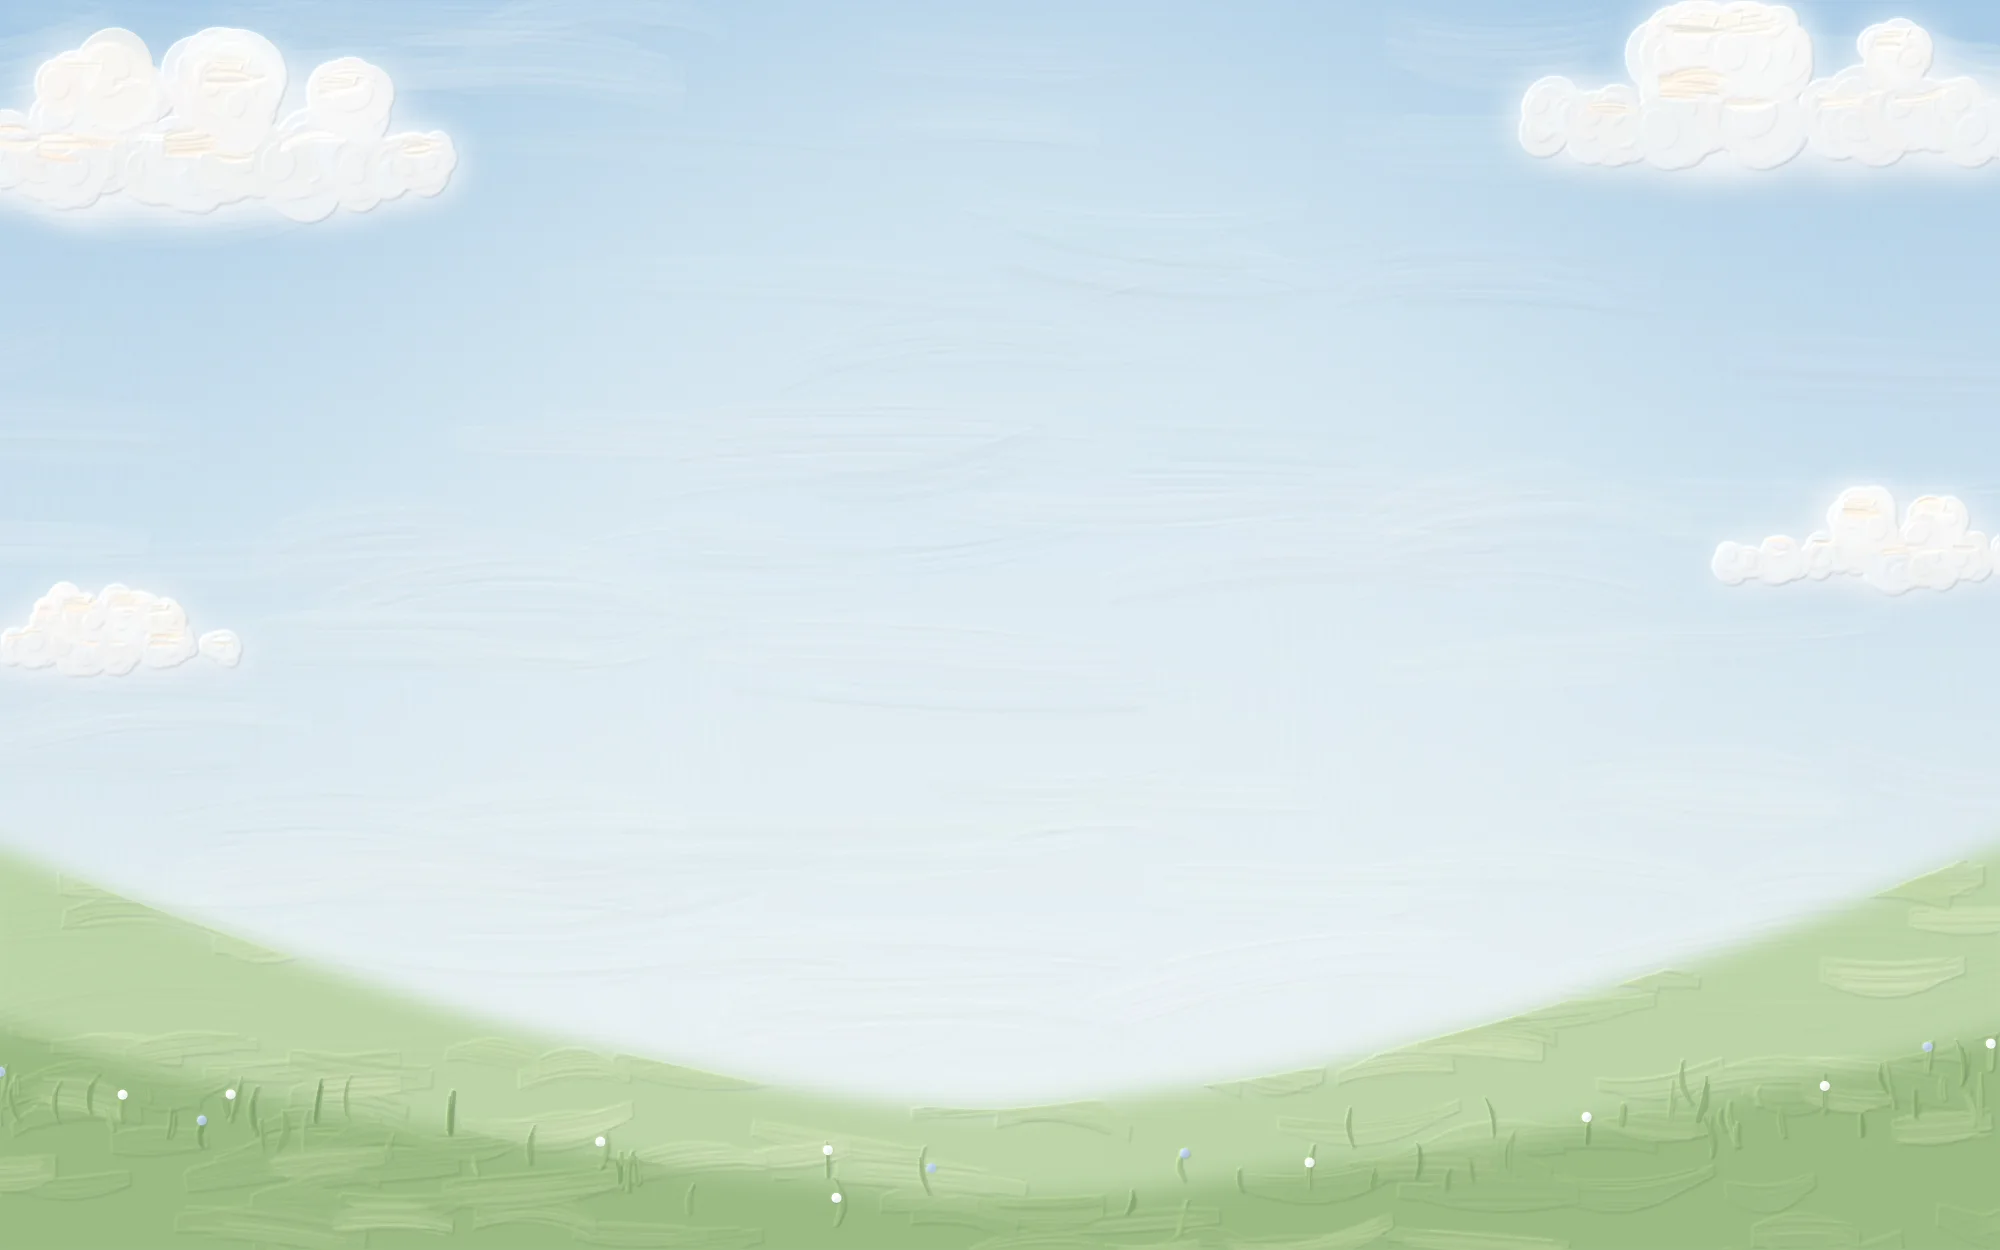
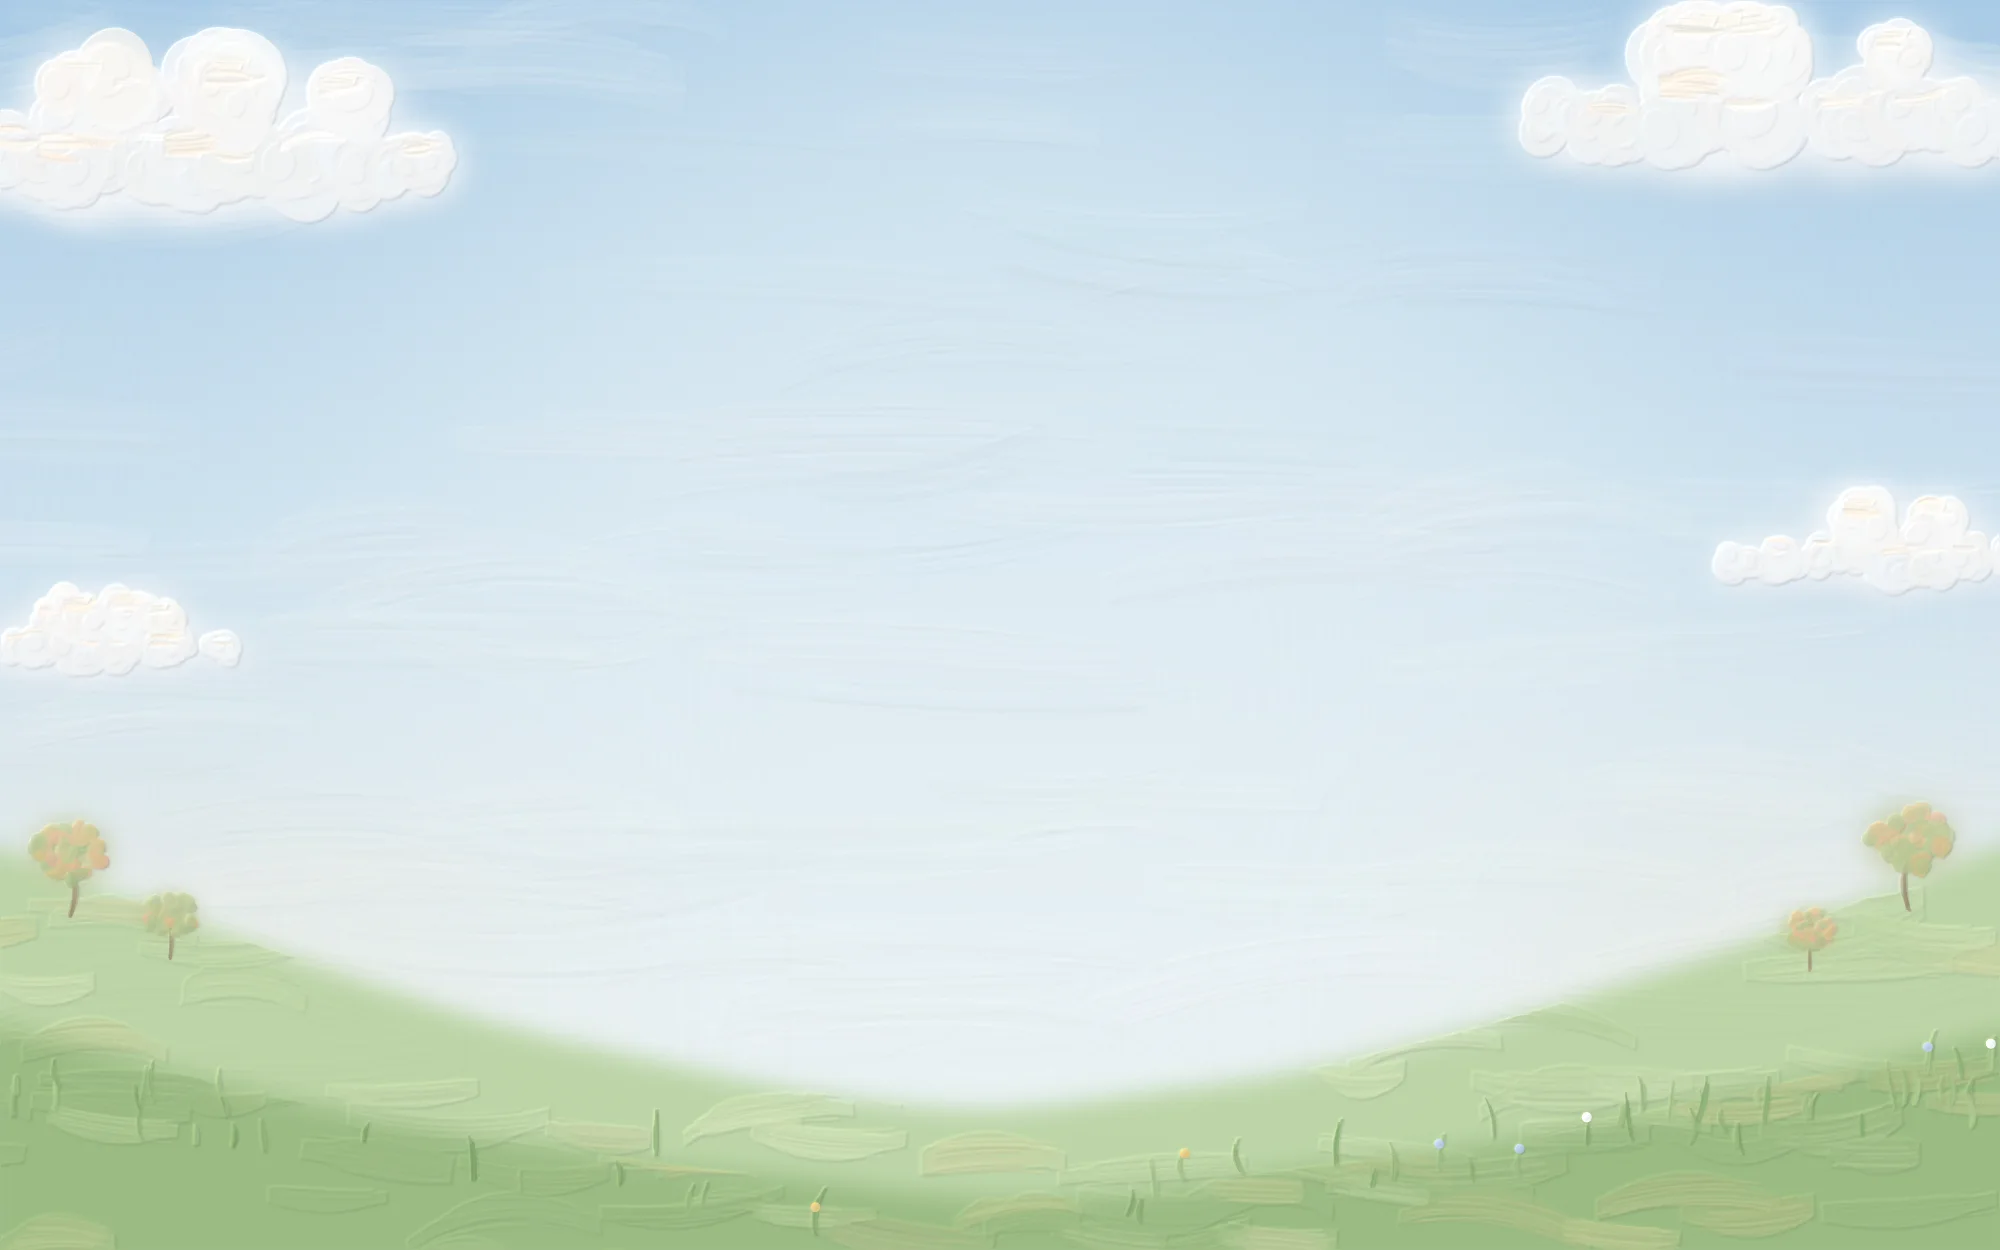
Early-autumn warmth on the case-study backdrop; Work page is one full-window scene

diff --git a/src/app/work/page.tsx b/src/app/work/page.tsx
@@ -1,7 +1,5 @@
 import type { Metadata } from "next";
-import Link from "next/link";
 import WorkGarden from "@/components/work/WorkGarden";
-import { getProject, workSlugs } from "@/data/projects";
 
 export const metadata: Metadata = {
   title: "Work | A Garden of Ideas — Zhinuo Wang",
@@ -9,33 +7,15 @@ export const metadata: Metadata = {
 };
 
 export default function WorkPage() {
-  const projects = workSlugs.map((s) => getProject(s)!);
   return (
-    <div className="work-page nightable relative overflow-hidden px-0 pt-28 pb-10 sm:pt-[4.2rem]">
-      <section aria-labelledby="work-title" className="relative">
+    <div className="work-page nightable relative flex min-h-svh flex-col justify-end overflow-hidden px-0 pt-28 sm:pt-[4.2rem]">
+      <section aria-labelledby="work-title" className="relative flex flex-col items-center">
         {/* the heading sits in the garden's open sky, so the garden itself begins right under the site header */}
         <h1 id="work-title" className="pointer-events-none absolute inset-x-0 top-[3.5%] z-10 mx-auto max-w-5xl px-4 text-center font-serif text-[clamp(1.6rem,3vw,2.5rem)] leading-tight font-medium text-ink [text-shadow:0_0_18px_rgb(251_243_236/0.7)] portrait-art:top-[2.5%]">
           Choose a place to explore my work.
         </h1>
         <WorkGarden />
       </section>
-
-      {/* the same three projects as a plain list, for anyone who prefers it */}
-      <nav aria-label="Projects" className="relative mx-auto mt-6 max-w-3xl px-4 text-center">
-        <p className="text-sm text-ink-soft">Or open a project directly:</p>
-        <ul className="mt-2 flex flex-wrap justify-center gap-x-6 gap-y-2">
-          {projects.map((p) => (
-            <li key={p.slug}>
-              <Link href={`/work/${p.slug}`} className="group inline-flex min-h-11 items-center gap-2 font-serif text-lg text-ink hover:text-forest">
-                {p.title}
-                <span data-category={p.category} className={`category-pill rounded-full px-2 py-0.5 font-sans text-[0.68rem] font-semibold tracking-[0.12em] uppercase ${p.category === "academic" ? "bg-[#e3ead2] text-moss" : "bg-[#f6dcd6] text-rose"}`}>
-                  {p.category === "academic" ? "Academic" : "Personal"}
-                </span>
-              </Link>
-            </li>
-          ))}
-        </ul>
-      </nav>
     </div>
   );
 }

diff --git a/src/app/globals.css b/src/app/globals.css
@@ -484,6 +484,13 @@ html.butterfly-cursor :is(a, button, [role="button"], input, select, textarea, l
 }
 
 /* ---------- Work: the compact project garden ---------- */
+/* the Work page is one painted scene: no site footer beneath it, and the panorama fills the
+   window below the header — a little wider than the window when it must, trimming only the
+   extra trees at its far edges, never stretched */
+html:has(.work-page) body > footer { display: none; }
+.work-wide { width: max(100%, calc((100svh - 4.2rem) * 3000 / 1350)); flex-shrink: 0; }
+@media (max-width: 639px) { .work-wide { width: max(100%, calc((100svh - 7rem) * 3000 / 1350)); } }
+
 .work-page::before {
   content: "";
   position: absolute;

diff --git a/src/components/work/WorkGarden.tsx b/src/components/work/WorkGarden.tsx
@@ -238,8 +238,8 @@ export default function WorkGarden() {
   return (
     <>
       {/* a full-width panorama (3000 × 1350) on wide screens; a tall composition on phones */}
-      <Stage fmt="desktop" c={anchors.desktop as Composition} ratio={3000 / 1350} className="portrait-art:hidden" />
-      <Stage fmt="mobile" c={anchors.mobile as Composition} ratio={9 / 16} className="hidden portrait-art:block" />
+      <Stage fmt="desktop" c={anchors.desktop as Composition} ratio={3000 / 1350} className="work-wide portrait-art:hidden" />
+      <Stage fmt="mobile" c={anchors.mobile as Composition} ratio={9 / 16} className="hidden w-full portrait-art:block" />
     </>
   );
 }

diff --git a/docs/FOUR-PAGE-STRUCTURE.md b/docs/FOUR-PAGE-STRUCTURE.md
@@ -8,7 +8,7 @@ Checkpoint before the change: git tag `phase-2-checkpoint`.
 | --- | --- | --- |
 | `/` | Landing | Three scenes of one painted garden: the title, three thoughts on the hills, and afternoon tea with the Explore My Work sign |
 | `/about` | About | Botanical-journal page: intro, education, experience and skills from the resume, plus Download Resume |
-| `/work` | Work | One compact painted garden with three project landmarks and a small guide, plus a plain list below it |
+| `/work` | Work | One full-width painted garden with three project landmarks and a small guide — the whole page is the scene |
 | `/contact` | Contact | Garden mailbox scene with a visible email link; the envelope reveals a note |
 | `/work/[slug]` | Case study ×5 | Secondary detail pages, with Back to Work and Next Project |
 
@@ -48,7 +48,8 @@ Removed (all recoverable from the tag): the homepage sections `GardenGate`, `Gar
   Landmarks are real links: Enter works, and with reduced motion they open at once. Next Project cycles through the
   three. Nomi & Pudding and the Dyson brochure keep their case-study pages but are no longer linked from Work.
   On wide screens the garden runs full-bleed as a 3000 × 1350 panorama (the landscape extended, not stretched), with
-  the heading painted into the sky; phones get their own tall composition.
+  the heading painted into the sky. It fills the window below the header (a little wider than the window when needed,
+  trimming only the edge trees), and the page has no list or footer beneath it; phones get their own tall composition.
   Code: `src/components/work/WorkGarden.tsx`; art: `node scripts/paint-landing.mjs --work`.
 - **Contact.** A pink sky over painted hills and wildflowers. The email link is always visible. Opening the envelope
   raises the flag on a vine-wrapped garden mailbox and slides out a note.
@@ -58,7 +59,9 @@ Removed (all recoverable from the tag): the homepage sections `GardenGate`, `Gar
 The Landing statements live in `src/data/site.ts` → `landingScenes`. Edit them there.
 - **Case studies (Dog Nutrition Tracker, Eliminate Bacteria Pro, Little Moments).** Each is a page from the garden's
   field journal: a fixed oil-painted backdrop of soft sky blue, meadow green and warm white clouds — a continuous sky over a low
-  meadow, with the clouds and grass painted in real pigment and selective impasto, and the sky kept calm behind the text
+  meadow, with the clouds and grass painted in real pigment and selective impasto, and the sky kept calm behind the text;
+  a touch of early autumn — a few muted gold and peach strokes in the grass, small turning trees on the far hills, and
+  the odd golden flower
   (moonlit blue and cool green at night; `node scripts/paint-landing.mjs --journal`), contents in the margin, sage vines under headings and
   leaf bullets. Project images sit straight on the page with no card, border or tape; only those with an opaque
   background get a faint, diffused neutral shadow. The images themselves are untouched.
